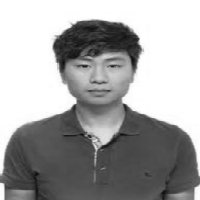
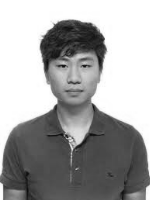
scaling ratio fix

diff --git a/source/ExternalDLL/ExternalDLL/StudentPreProcessing.cpp b/source/ExternalDLL/ExternalDLL/StudentPreProcessing.cpp
@@ -24,11 +24,8 @@ IntensityImage * StudentPreProcessing::stepToIntensityImage(const RGBImage &imag
 IntensityImage * StudentPreProcessing::stepScaleImage(const IntensityImage &image) const {
 	Point2D<int> oldSize(image.getWidth(), image.getHeight());
 
-
-
-
-	float x_ratio = static_cast<float>(oldSize.getX() - 1) / 260;
-	float y_ratio = static_cast<float>(oldSize.getY() - 1) / 260;
+	float x_ratio = static_cast<float>(oldSize.getX() - 1) / 200;
+	float y_ratio = static_cast<float>(oldSize.getY() - 1) / 200;
 	float ratio = y_ratio;
 	if (x_ratio > y_ratio){ ratio = x_ratio; }
 
